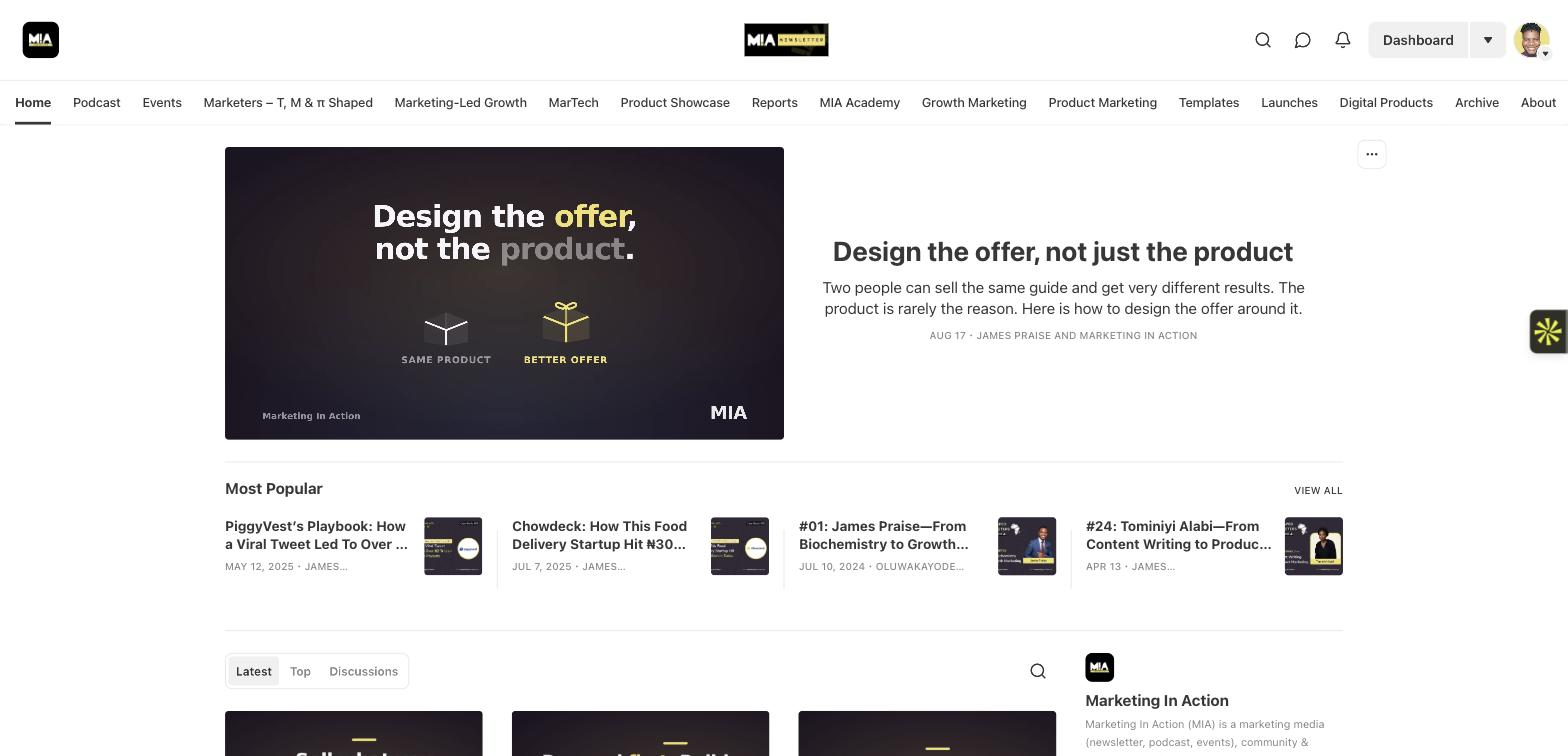
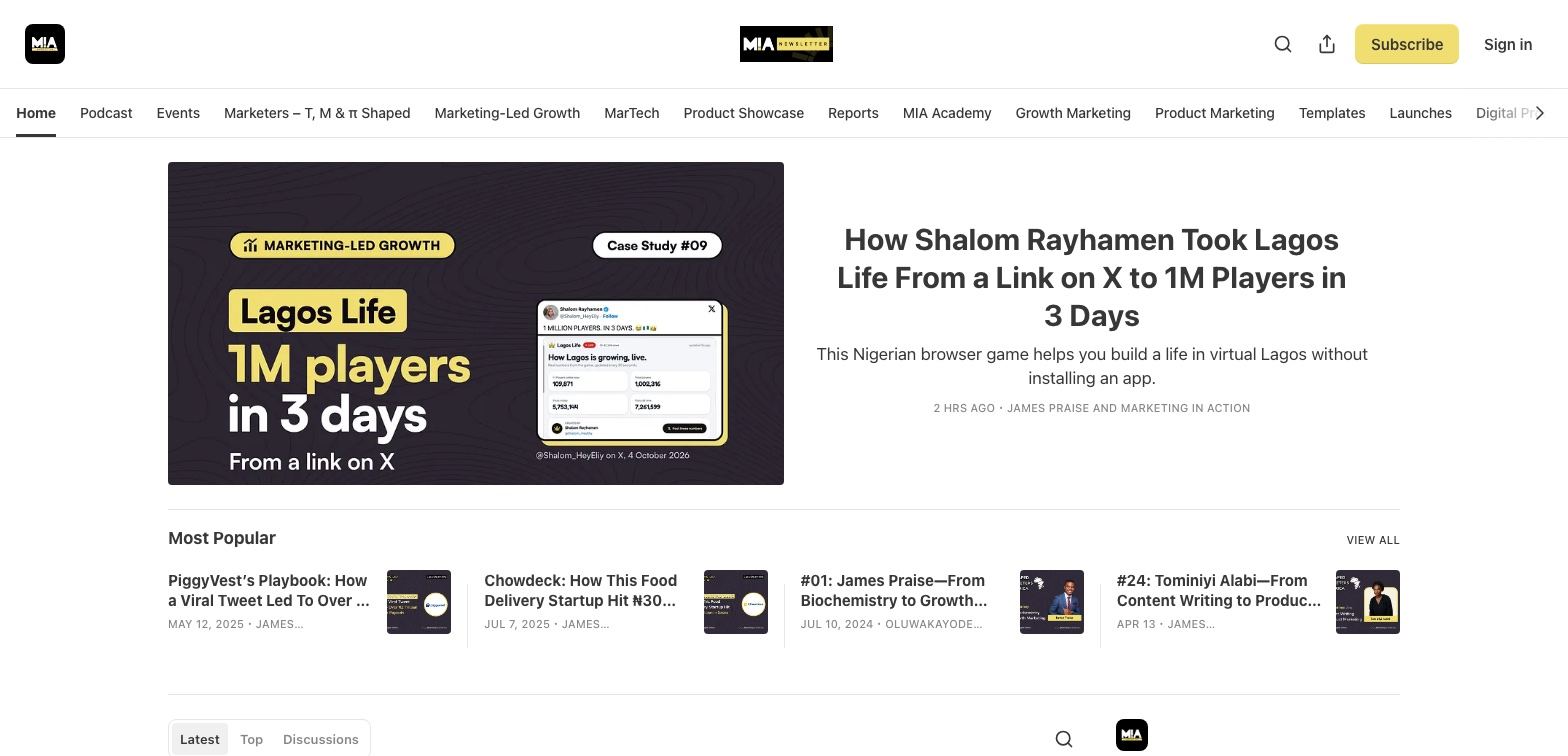
Add the Lagos Life case study to Writing and refresh the MIA Newsletter screenshot

diff --git a/writing/index.html b/writing/index.html
@@ -105,6 +105,16 @@ height="0" width="0" style="display:none;visibility:hidden"></iframe></noscript>
 
     <div data-tab-panel="marketing">
       <div class="talk-grid" style="margin-top: var(--space-lg);">
+        <a class="talk-card" href="https://newsletter.marketinginaction.xyz/p/lagos-life-marketing-led-growth-case-study" target="_blank" rel="noopener" data-year-card="2026">
+          <div class="csc-card-meta">
+            <span class="csc-tag">MIA Newsletter</span>
+            <span class="csc-date">Nov 2026</span>
+          </div>
+          <h3 class="csc-headline">How Shalom Rayhamen Took Lagos Life From a Link on X to 1M Players in 3 Days</h3>
+          <p>This Nigerian browser game helps you build a life in virtual Lagos without installing an app.</p>
+          <span class="csc-link">Read &rarr;</span>
+        </a>
+
         <a class="talk-card" href="https://newsletter.marketinginaction.xyz/p/positioning-messaging-launch-framework-for-multi-product-companies" target="_blank" rel="noopener" data-year-card="2026">
           <div class="csc-card-meta">
             <span class="csc-tag">MIA Newsletter</span>
